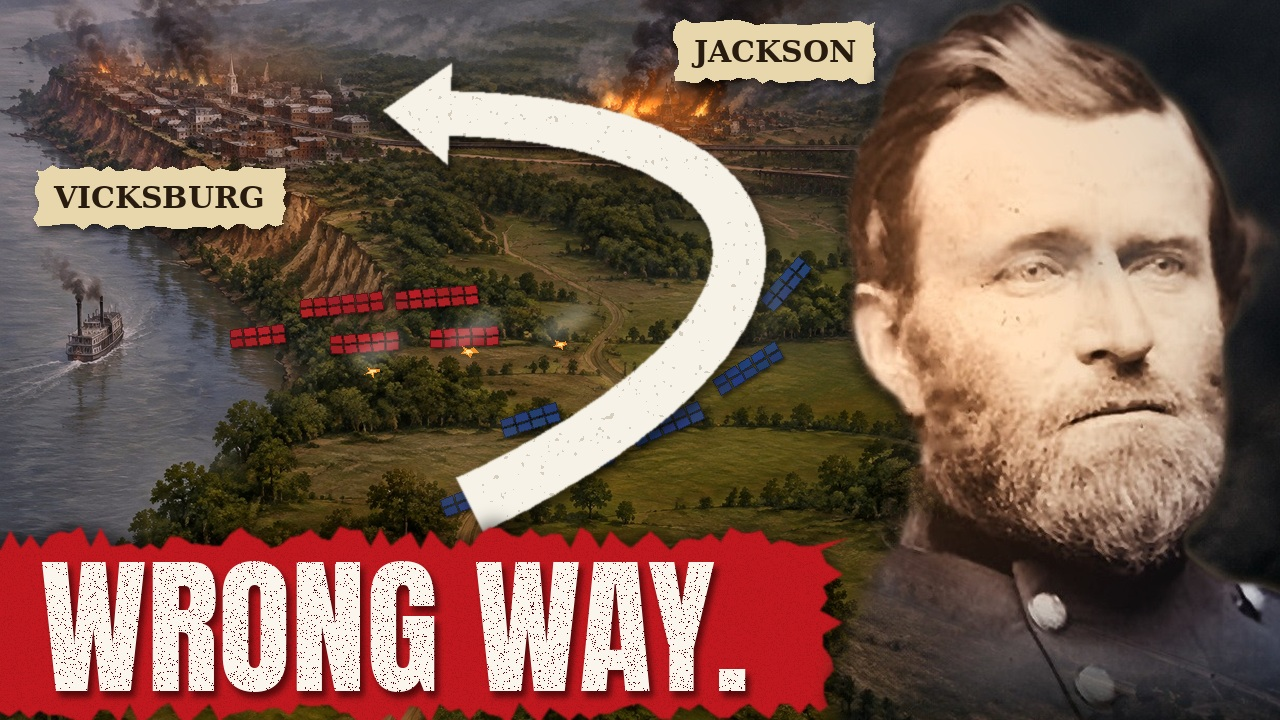
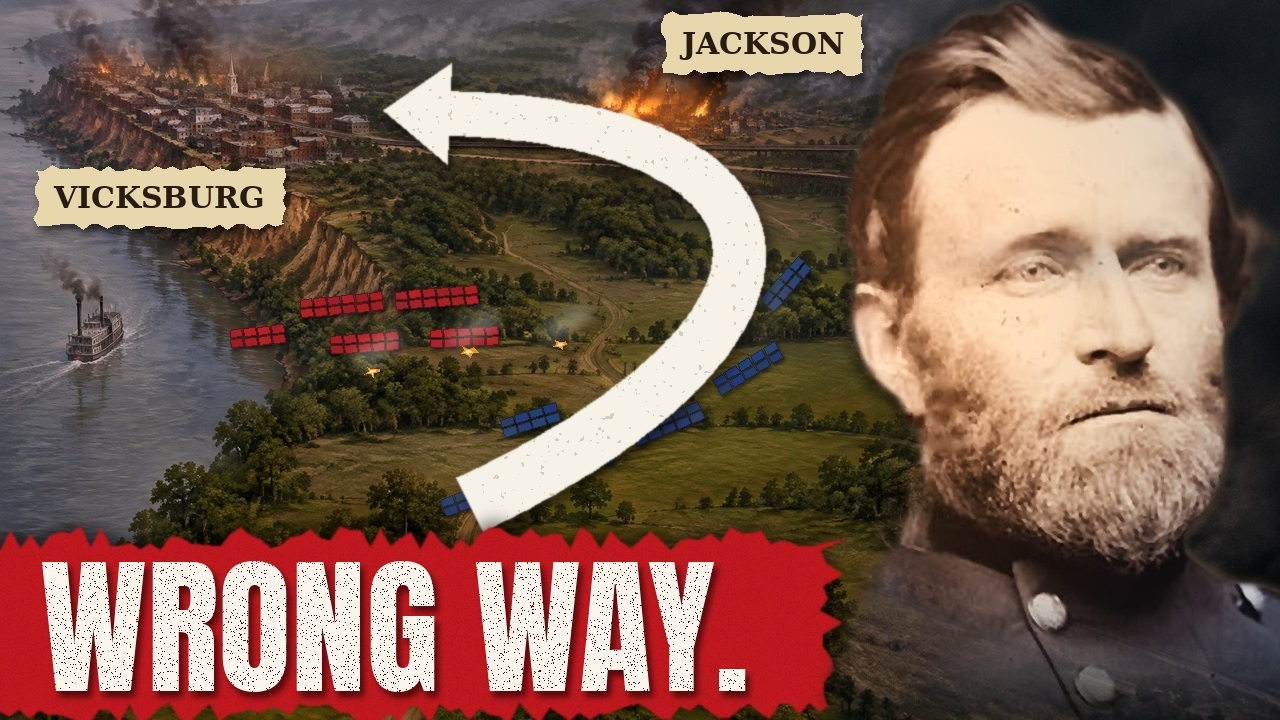
Vicksburg thumbnails v7 ALT (Jackson due east, clear of the duration badge); MAIN tag nudge
Claude-Session: https://claude.ai/code/session_011uJnjA7y1mRFw6KPGY1APG

Changed region(s): [[0.5, 0.0, 0.6875, 0.1222]]

diff --git a/vicksburg/tools/make_thumb_v7_gm.py b/vicksburg/tools/make_thumb_v7_gm.py
@@ -1,0 +1,174 @@
+"""Vicksburg v7 thumbnail, ALT (v6 + critic round 4: Jackson due EAST of Vicksburg at the town's height, out of the duration-badge corner;
+the arrow runs east, turns north up the right side to Jackson, then hooks due west into the town; the Mississippi leaves the town to the
+north/north-west; word 171 px from x ~105). Built on v6; notes follow.
+Vicksburg v6 thumbnail, ALT (v5 + critic round 3: ONE hooked arrow that runs EAST past Vicksburg to Jackson and curls back WEST into
+the town; word clear of Grant's head; open counters and letter gaps). Built on v5; notes follow.
+Vicksburg v5 thumbnail, ALT (v4 with the owner-approved word WRONG WAY. + "THEN VICKSBURG FELL"; the glowing arrow now swings EAST
+(inland, down-right on this north-up-right map) before it reaches Vicksburg: the wrong way, then the payoff). Built on v4; notes follow.
+Vicksburg v4 thumbnail, ALT (v3 + critic round 2: bigger word in the space above a lowered Grant, Bruinsburg on the river,
+sandy-brown beard + eyes -10 %, brighter subtitle). Built on the v3 script; v3 notes follow.
+Vicksburg v3 thumbnail, ALT (Test & Compare), Grand Maneuver recipe (PACKAGING_GUIDE 0c item 3B; marion/tools/make_thumb_v10.py gm()).
+v3 = every fix of youtube/thumb/critic_ALT.md (2026-11-19):
+ - heavy word: tracking +12, 1.1x stretch, MaxFilter 11 -> stem >= 27 % of word height, letter gaps >= 8 px (9 glyphs: 173 px tall, 977 wide)
+ - ONE calm left-to-right story: seal at BRUINSBURG (560,590) -> one glowing arc bowing down (the inland march east of the river)
+   -> big glowing VICKSBURG payoff at the right end (x ~1080). Map turned so north points up-right: the Mississippi runs lower-left
+   to upper-right, Bruinsburg and Vicksburg both on its EAST (lower-right) bank, Vicksburg NNE of Bruinsburg (true).
+ - payoff = vidIQ dusk vignette (Vicksburg on its bluff, lamplit, fires + smoke of the bombardment), 380 px, bottom feathered,
+   orange bloom + hot core: the hottest warm accent, at the far right.
+ - declutter: 2 labels (BRUINSBURG, VICKSBURG, Cinzel 40), no unit blocks, no star, thin Mississippi kept >= 70 px from the seal.
+ - subtitle = twist line "THEN VICKSBURG FELL" (decision 3 May, surrender 4 July 1863).
+ - portrait: vidIQ oil repaint of the LoC Brady photo (likeness, pose, two-star strap kept), hard 2 px matte, NO rim composite.
+usage (from vicksburg/): python3 tools/make_thumb_v7_gm.py "WRONG WAY." "THEN VICKSBURG FELL" ALT-GM"""
+import sys, math, numpy as np, cv2
+from PIL import Image, ImageDraw, ImageFont, ImageFilter, ImageChops, ImageEnhance
+from scipy.interpolate import splprep, splev
+W, H = 1280, 720; MT = "/home/user/battle-maps/marion/tools/"
+AN = MT + "Anton-Regular.ttf"; SER = MT + "cinzel-600.ttf"
+word = sys.argv[1] if len(sys.argv) > 1 else "WRONG WAY."
+sub = sys.argv[2] if len(sys.argv) > 2 else "THEN VICKSBURG FELL"
+tag_out = sys.argv[3] if len(sys.argv) > 3 else "ALT-GM"
+THICK = int(sys.argv[4]) if len(sys.argv) > 4 else 0
+def text_shadow(im, xy, txt, font, fill, anchor, off=(6, 8), blur=10, op=170, **kw):
+    sh = Image.new("RGBA", im.size, (0, 0, 0, 0)); ImageDraw.Draw(sh).text((xy[0] + off[0], xy[1] + off[1]), txt, font=font, fill=(0, 0, 0, op), anchor=anchor, **kw)
+    im = Image.alpha_composite(im, sh.filter(ImageFilter.GaussianBlur(blur))); ImageDraw.Draw(im).text(xy, txt, font=font, fill=fill, anchor=anchor, **kw); return im
+def soft(im, col, mask, blur):
+    lay = Image.new("RGBA", im.size, col + (0,)); lay.putalpha(mask.filter(ImageFilter.GaussianBlur(blur))); return Image.alpha_composite(im, lay)
+def bez(pts, t):
+    (a, b, c, d) = pts; return ((1 - t) ** 3 * a[0] + 3 * (1 - t) ** 2 * t * b[0] + 3 * (1 - t) * t ** 2 * c[0] + t ** 3 * d[0],
+                                (1 - t) ** 3 * a[1] + 3 * (1 - t) ** 2 * t * b[1] + 3 * (1 - t) * t ** 2 * c[1] + t ** 3 * d[1])
+def glow_arrow(im, pts, w0, w1, col, glow, tmax=0.9):
+    P = [bez(pts, t) for t in np.linspace(0, tmax, 160)]; L, R = [], []
+    for i in range(len(P)):
+        a, b = P[max(i - 1, 0)], P[min(i + 1, len(P) - 1)]; ang = math.atan2(b[1] - a[1], b[0] - a[0]); w = (w0 + (w1 - w0) * i / len(P)) / 2
+        L.append((P[i][0] + math.cos(ang + math.pi / 2) * w, P[i][1] + math.sin(ang + math.pi / 2) * w)); R.append((P[i][0] - math.cos(ang + math.pi / 2) * w, P[i][1] - math.sin(ang + math.pi / 2) * w))
+    a = math.atan2(P[-1][1] - P[-4][1], P[-1][0] - P[-4][0]); hw, hl = w1 * 1.9, w1 * 2.6; ex, ey = P[-1]
+    head = [(ex + math.cos(a + math.pi / 2) * hw, ey + math.sin(a + math.pi / 2) * hw), (ex + math.cos(a) * hl, ey + math.sin(a) * hl), (ex - math.cos(a + math.pi / 2) * hw, ey - math.sin(a + math.pi / 2) * hw)]
+    poly = L + head + R[::-1]
+    gm_ = Image.new("L", im.size, 0); ImageDraw.Draw(gm_).polygon(poly, fill=glow[3]); im = soft(im, glow[:3], gm_, 12)
+    sm = Image.new("L", im.size, 0); ImageDraw.Draw(sm).polygon([(x + 4, y + 6) for x, y in poly], fill=130); im = soft(im, (0, 0, 0), sm, 6)
+    lay = Image.new("RGBA", im.size, (0, 0, 0, 0)); ImageDraw.Draw(lay).polygon(poly, fill=col); return Image.alpha_composite(im, lay)
+def glossy_seal(im, c, R):
+    sx, sy = c; lay = Image.new("RGBA", im.size, (0, 0, 0, 0)); d = ImageDraw.Draw(lay)
+    for i in range(22):
+        a = i / 22 * 2 * math.pi; rr = R * 0.27; d.ellipse([sx + math.cos(a) * R * 0.92 - rr, sy + math.sin(a) * R * 0.92 - rr, sx + math.cos(a) * R * 0.92 + rr, sy + math.sin(a) * R * 0.92 + rr], fill=(120, 10, 16, 255))
+    for r in range(int(R), 0, -1):
+        t = r / R; d.ellipse([sx - r - (1 - t) * R * 0.2, sy - r - (1 - t) * R * 0.2, sx + r - (1 - t) * R * 0.2, sy + r - (1 - t) * R * 0.2], fill=(int(96 + 134 * (1 - t) ** 1.2), int(10 + 60 * (1 - t) ** 2), int(16 + 56 * (1 - t) ** 2), 255))
+    d.ellipse([sx - R * 0.7, sy - R * 0.7, sx + R * 0.7, sy + R * 0.7], outline=(80, 6, 10, 255), width=5)
+    for s in (1, -1):
+        pts = [(sx - R * 0.48 * s + (R * 0.86 * s) * t, sy + R * 0.46 - R * 0.9 * t - math.sin(t * math.pi) * R * 0.12) for t in np.linspace(0, 1, 18)]
+        d.line(pts, fill=(40, 40, 46, 255), width=11); d.line(pts, fill=(217, 221, 226, 255), width=7); d.line(pts[3:], fill=(255, 255, 255, 255), width=2)
+        gx, gy = pts[3]; d.line([gx - 9 * s, gy - 9, gx + 9 * s, gy + 9], fill=(212, 170, 80, 255), width=6); d.line([pts[0], pts[3]], fill=(70, 40, 20, 255), width=8)
+    hl = Image.new("L", im.size, 0); ImageDraw.Draw(hl).ellipse([sx - R * 0.75, sy - R * 0.85, sx - R * 0.05, sy - R * 0.35], fill=110)
+    sh = Image.new("L", im.size, 0); ImageDraw.Draw(sh).ellipse([sx - R + 6, sy - R + 11, sx + R + 6, sy + R + 11], fill=180)
+    im = soft(im, (0, 0, 0), sh, 9); im = Image.alpha_composite(im, lay); return soft(im, (255, 210, 210), hl, 10)
+rng = np.random.default_rng(9)
+# ---------- navy base ----------
+base = Image.new("RGB", (W, H), (14, 26, 46)); grad = Image.linear_gradient("L").resize((W, H))
+base = Image.composite(Image.new("RGB", (W, H), (20, 39, 68)), base, grad.point(lambda v: int(v * 0.6)))
+n = Image.effect_noise((W, H), 22).convert("RGB"); base = Image.blend(base, ImageChops.overlay(base, n), 0.12); im = base.convert("RGBA")
+# ---------- heavy word (thickened glyph mask) + subtitle ----------
+# 9 glyphs cannot take Marion's 1.35x stretch inside the 960 px slot, so: per-letter tracking (+12), 1.1x stretch, then a 5 px/side
+# dilation (MaxFilter 11) -> stem 27 % of the word height with >= 9 px between letters and open counters (searched, see fixes_v3.md)
+WH, SX, TRK, SW = 170, 1.25, 2, 1    # v6: searched (fixes_v6.md): Anton + stroke 1, 1.25x (Marion stretches 1.35x): stems 26 %, O 16 px, gaps >= 9 px, 1108 wide
+f0 = ImageFont.truetype(AN, int(WH * 250 / 219)); tmp = Image.new("L", (3000, 500), 0); d0 = ImageDraw.Draw(tmp); x_ = 20
+for ch in word: d0.text((x_, 20), ch, font=f0, fill=255, stroke_width=SW, stroke_fill=255); x_ += d0.textlength(ch, font=f0) + TRK / SX
+glyph = tmp.crop(tmp.getbbox()); glyph = glyph.resize((int(glyph.width * SX), glyph.height), Image.LANCZOS)
+if THICK: glyph = glyph.filter(ImageFilter.MaxFilter(THICK))
+glyph = glyph.crop(glyph.getbbox()); GH = glyph.height
+CX = 683; gx, gy = int(CX - glyph.width / 2), 14                      # v7: word from x ~105 (Grant is lower), 171 px tall
+fs = ImageFont.truetype(SER, 36); s_ = "   ".join(" ".join(w) for w in sub.split()); sy_ = gy + glyph.height + 24
+tm = Image.new("L", (W, H), 0); tm.paste(glyph, (gx, gy)); ImageDraw.Draw(tm).text((CX, sy_), s_, font=fs, fill=255, anchor="ma")
+# ---------- faint hairline rivers (cut away under the text, the portrait side and the seal) ----------
+S = 2; lay = Image.new("RGBA", (W * S, H * S), (0, 0, 0, 0)); gl = Image.new("RGBA", (W * S, H * S), (0, 0, 0, 0)); d, g = ImageDraw.Draw(lay), ImageDraw.Draw(gl)
+def walk(x, y, ang, nn, wdt, depth, bright=1.0):
+    pts = [(x, y)]
+    for _ in range(nn):
+        ang += rng.normal(0, 0.18); step = rng.uniform(14, 26) * S; x += math.cos(ang) * step; y += math.sin(ang) * step; pts.append((x, y))
+        if depth < 2 and rng.random() < 0.06: walk(x, y, ang + rng.choice([-1, 1]) * rng.uniform(0.6, 1.0), int(nn * 0.5), wdt * 0.7, depth + 1, bright)
+    g.line(pts, fill=(80, 150, 235, int(90 * bright)), width=int(9 * wdt)); d.line(pts, fill=(207, 228, 255, int(210 * bright)), width=max(2, int(3 * wdt)))
+for (x, y, a) in [(1320, 640, 3.2), (900, 760, -1.9), (1320, 300, 2.9), (700, 760, -1.4), (480, 760, -1.1)]: walk(x * S, y * S, a, 60, 0.8, 0, 0.8)
+rv = Image.alpha_composite(gl.filter(ImageFilter.GaussianBlur(8)), lay).resize((W, H), Image.LANCZOS)
+cut = tm.filter(ImageFilter.MaxFilter(31)); ImageDraw.Draw(cut).ellipse([615 - 110, 590 - 110, 615 + 110, 590 + 110], fill=255)
+rv.putalpha(ImageChops.subtract(rv.split()[3].point(lambda v: int(v * 0.30)), cut)); im = Image.alpha_composite(im, rv)
+# ---------- the Mississippi: lower-left to upper-right (north = up-right), west of Bruinsburg and Vicksburg ----------
+MS = [(320, 740), (390, 660), (462, 590), (535, 528), (620, 500), (720, 468), (800, 420), (840, 360), (836, 300), (812, 240), (790, 160), (770, 60), (760, -20)]   # v7: leaves the town to the north/north-west (Jackson lies east)   # round 2: touches the seal rim (Bruinsburg on the river)
+tck, _ = splprep(np.array(MS).T, s=0); xs, ys = splev(np.linspace(0, 1, 400), tck); mp = list(zip(xs, ys))
+dmin = min(math.hypot(x - 615, y - 590) for x, y in mp)
+mg = Image.new("L", (W, H), 0); ImageDraw.Draw(mg).line(mp, fill=120, width=20); mg = ImageChops.multiply(mg, Image.linear_gradient("L").resize((W, H)).point(lambda v: int(255 * min(1, max(0, (v * H / 255 - 250) / 70))))); im = soft(im, (80, 150, 235), mg, 9)
+ml = Image.new("RGBA", (W, H), (0, 0, 0, 0)); ImageDraw.Draw(ml).line(mp, fill=(190, 220, 255, 220), width=5); ImageDraw.Draw(ml).line(mp, fill=(236, 246, 255, 235), width=2)
+fade = Image.linear_gradient("L").resize((W, H)).point(lambda v: int(255 * min(1, max(0, (v * H / 255 - 250) / 70))))   # v7: the river fades out under the subtitle, never through the word
+ml.putalpha(ImageChops.multiply(ml.split()[3], fade)); im = Image.alpha_composite(im, ml)   # v6: brighter core = reads as the river
+# ---------- payoff: Vicksburg on its bluff at dusk, burning (right end) ----------
+IX, IY = 940, 480                                                    # v6: payoff 330 px centred ~(940,440): room for the hook on its right
+ic = Image.open("youtube/thumb/work_v3/icon_vidiq_vicksburg_dusk_v3.png").convert("RGBA"); ic = ic.crop(ic.getbbox())
+ia = np.array(ic.split()[3]).astype(float); h0 = int(ic.height * 0.66); ia[h0:] *= np.linspace(1, 0, ic.height - h0)[:, None] ** 2.2; ic.putalpha(Image.fromarray(ia.astype(np.uint8)))
+ic.thumbnail((330, 330), Image.LANCZOS); px, py = int(IX - ic.width / 2), int(IY - ic.height * 0.62)
+bm = Image.new("L", (W, H), 0); ImageDraw.Draw(bm).ellipse([IX - 150, IY - 190, IX + 150, IY + 110], fill=150); im = soft(im, (255, 138, 42), bm, 60)
+im.alpha_composite(ic, (px, py))
+hm = Image.new("L", (W, H), 0); ImageDraw.Draw(hm).ellipse([IX - 100, IY - 150, IX + 60, IY + 10], fill=120); im = soft(im, (255, 160, 60), hm, 30)
+# ---------- the move: Bruinsburg -> one arc inland (east of the river) -> Vicksburg ----------
+SX, SY = 615, 590
+# v6: ONE hooked arrow: Bruinsburg -> east along the bottom, past Vicksburg -> Jackson (apex) -> curls back west into the town's right flank
+HOOK = [(SX + 74, SY + 0), (780, 620), (900, 646), (1030, 640), (1120, 612), (1176, 562), (1196, 512), (1180, 484), (1146, 468), (1112, 462)]   # v7: east, north up the right side to Jackson, due west into the town
+tck2, _ = splprep(np.array(HOOK).T, s=0); hx, hy = splev(np.linspace(0, 1, 400), tck2); HP = list(zip(hx, hy))
+def glow_path(im, P, w0, w1, col, glow):
+    L, R = [], []
+    for i in range(len(P)):
+        a, b = P[max(i - 1, 0)], P[min(i + 1, len(P) - 1)]; ang = math.atan2(b[1] - a[1], b[0] - a[0]); w = (w0 + (w1 - w0) * i / len(P)) / 2
+        L.append((P[i][0] + math.cos(ang + math.pi / 2) * w, P[i][1] + math.sin(ang + math.pi / 2) * w)); R.append((P[i][0] - math.cos(ang + math.pi / 2) * w, P[i][1] - math.sin(ang + math.pi / 2) * w))
+    a = math.atan2(P[-1][1] - P[-6][1], P[-1][0] - P[-6][0]); hw, hl = w1 * 1.9, w1 * 2.6; ex, ey = P[-1]
+    head = [(ex + math.cos(a + math.pi / 2) * hw, ey + math.sin(a + math.pi / 2) * hw), (ex + math.cos(a) * hl, ey + math.sin(a) * hl), (ex - math.cos(a + math.pi / 2) * hw, ey - math.sin(a + math.pi / 2) * hw)]
+    poly = L + head + R[::-1]
+    gm_ = Image.new("L", im.size, 0); ImageDraw.Draw(gm_).polygon(poly, fill=glow[3]); im = soft(im, glow[:3], gm_, 12)
+    sm = Image.new("L", im.size, 0); ImageDraw.Draw(sm).polygon([(x + 4, y + 6) for x, y in poly], fill=130); im = soft(im, (0, 0, 0), sm, 6)
+    lay = Image.new("RGBA", im.size, (0, 0, 0, 0)); ImageDraw.Draw(lay).polygon(poly, fill=col); return Image.alpha_composite(im, lay), poly, math.degrees(a)
+# Jackson at the apex: a small painted flame (cropped from the vidIQ vignette's fire, no plate) + a 24 px label
+fl_src = Image.open("youtube/thumb/work_v3/icon_vidiq_vicksburg_dusk_v3.png").convert("RGBA").crop((1110, 330, 1330, 620))
+fl_src.thumbnail((60, 78), Image.LANCZOS); fa = np.array(fl_src.split()[3]).astype(float); yy_, xx_ = np.mgrid[0:fa.shape[0], 0:fa.shape[1]]
+fa *= np.clip(1 - (((xx_ - fa.shape[1] / 2) / (fa.shape[1] / 2)) ** 2 + ((yy_ - fa.shape[0] / 2) / (fa.shape[0] / 2)) ** 2), 0, 1) ** 0.6; fl_src.putalpha(Image.fromarray(fa.astype(np.uint8)))
+JX, JY = 1196, 436                                                    # v7: Jackson level with Vicksburg (y ~440), 256 px east of it
+jm = Image.new("L", (W, H), 0); ImageDraw.Draw(jm).ellipse([JX - 40, JY - 40, JX + 40, JY + 34], fill=160); im = soft(im, (255, 138, 42), jm, 20)
+_a = fl_src.split()[3]; fl_src = ImageEnhance.Brightness(fl_src.convert('RGB')).enhance(1.35).convert('RGBA'); fl_src.putalpha(_a)   # brighter flame (2nd warm spot)
+im.alpha_composite(fl_src, (JX - fl_src.width // 2, JY - fl_src.height // 2 - 6))
+im, ARROW_POLY, HEAD_DEG = glow_path(im, HP, 22, 11, (126, 195, 255, 255), (70, 150, 240, 170))
+im = glossy_seal(im, (SX, SY), 66)
+fl = ImageFont.truetype(SER, 40)
+for t, (x, y) in [("BRUINSBURG", (SX - 20, 667)), ("VICKSBURG", (960, 528))]:
+    gg = Image.new("L", (W, H), 0); ImageDraw.Draw(gg).text((x, y), t, font=fl, fill=160, anchor="ma"); im = soft(im, (255, 210, 140), gg, 6)
+    im = text_shadow(im, (x, y), t, fl, (246, 232, 196), "ma", off=(2, 3), blur=3, op=220, stroke_width=1, stroke_fill=(246, 232, 196))
+fj = ImageFont.truetype(SER, 27)
+gg = Image.new("L", (W, H), 0); ImageDraw.Draw(gg).text((1262, 372), "JACKSON", font=fj, fill=150, anchor="ra"); im = soft(im, (255, 210, 140), gg, 5)
+im = text_shadow(im, (1262, 372), "JACKSON", fj, (246, 232, 196), "ra", off=(2, 3), blur=3, op=220)
+# ---------- colour oil portrait, left, facing the map; hard matte, NO rim ----------
+b = Image.open("youtube/thumb/work_v3/grant_oil_cut_v4.png").convert("RGBA")
+s = 0.54; b = b.resize((int(b.width * s), int(b.height * s)), Image.LANCZOS); a = b.split()[3]
+fx, fy = 585 * s, 660 * s; x0, y0 = int(178 - fx), int(408 - fy)                       # round 2: Grant 70 px lower, the word takes the space above him
+shd = Image.new("L", (W, H), 0); shd.paste(a.point(lambda v: int(v * 0.75)), (x0 + 12, y0 + 8)); im = soft(im, (0, 0, 0), shd, 12)
+im.alpha_composite(b, (x0, y0))
+# ---------- word + subtitle ----------
+shm = Image.new("L", (W, H), 0); shm.paste(glyph.point(lambda v: int(v * 0.5)), (gx, gy + 8)); im = soft(im, (0, 0, 0), shm, 12)
+col = Image.new("RGBA", glyph.size, (244, 236, 216, 255)); col.putalpha(glyph); im.alpha_composite(col, (gx, gy))
+im = text_shadow(im, (CX, sy_), s_, fs, (240, 228, 200), "ma", off=(0, 3), blur=4, op=180)
+key = word.replace(" ", "_").replace(".", "")
+out = f"youtube/thumb/vicksburg-v7-{tag_out}-{key}.jpg"; im.convert("RGB").save(out, quality=94)
+# ---------- self-measure: stem width / word height, letter gaps, payoff ----------
+gm = np.array(glyph) > 128; runs = []
+for fr in (0.35, 0.5, 0.65):
+    row = gm[int(GH * fr)]; e = np.diff(np.r_[0, row.astype(int), 0]); st_, en_ = np.nonzero(e == 1)[0], np.nonzero(e == -1)[0]; runs += list(en_ - st_)
+cols = gm.any(0); e = np.diff(np.r_[1, cols.astype(int), 1]); gs, ge = np.nonzero(e == -1)[0], np.nonzero(e == 1)[0]; gaps = [q - p for p, q in zip(gs, ge) if q - p < 60]
+pa = np.array(b.split()[3]); rows = np.nonzero(pa.max(1) > 128)[0]; head_top = y0 + rows.min()
+print(f"head top y={head_top} portrait height={(720 - head_top) / 7.2:.0f}%  word bottom y={gy + GH}  face (brow) y~{int(y0 + 560 * s)}")
+from PIL import ImageDraw as _D
+am = Image.new("L", (W, H), 0); _D.Draw(am).polygon(ARROW_POLY, fill=255); A_ = np.array(am) > 0; ys_, xs_ = np.nonzero(A_)
+fb = ImageFont.truetype(SER, 40); dd = _D.Draw(Image.new("L", (W, H)))
+def _box(t, x, y, f): b_ = dd.textbbox((x, y), t, font=f, anchor="ma"); return b_
+dt = cv2.distanceTransform((~A_).astype(np.uint8), cv2.DIST_L2, 5)
+def _clr(b_): return float(dt[b_[1]:b_[3], b_[0]:b_[2]].min())
+print(f"arrow area={A_.mean() * 100:.2f}%  east extent x={xs_.max()} (payoff centre {IX}, +{xs_.max() - IX}px)  head heading={(HEAD_DEG % 360):.0f} deg (0 = right, 180 = west)")
+print(f"clearance: BRUINSBURG {_clr(_box('BRUINSBURG', SX - 20, 667, fb)):.0f}px  VICKSBURG {_clr(_box('VICKSBURG', 960, 528, fb)):.0f}px  seal centre {dt[SY, SX]:.0f}px  JACKSON label {_clr(dd.textbbox((1262, 372), 'JACKSON', font=ImageFont.truetype(SER, 27), anchor='ra')):.0f}px")
+s168 = np.array(Image.open(out).resize((168, 94), Image.LANCZOS)); print("168px: outbound/return legs span", round((xs_.max() - min(x for x, y in HP[-40:])) * 168 / 1280, 1), "px")
+bz_ = A_[651:, 1141:].sum(); jb = dd.textbbox((1262, 372), 'JACKSON', font=ImageFont.truetype(SER, 27), anchor='ra')
+rv_e = [(x, y) for x, y in mp if y < 440 and x > IX + 60]
+print(f"badge zone (x>1140, y>650) arrow px={bz_}  JACKSON label box={jb}  flame at ({JX},{JY}) = {JX - IX}px east of the town centre, dy={JY - 440}  river px east of town+60 above y440: {len(rv_e)}  word x {gx}-{gx + glyph.width}, bottom {gy + GH}")
+print(out, f"word {glyph.width}x{GH}  stem(median run)={int(np.median(runs))} = {np.median(runs) / GH * 100:.0f}% H  min letter gap={min(gaps) if gaps else -1}px  "
+      f"payoff {ic.width}x{ic.height} at x={IX}  river-seal min dist={dmin:.0f}")

diff --git a/vicksburg/tools/make_thumb_v7_sheet.py b/vicksburg/tools/make_thumb_v7_sheet.py
@@ -1,0 +1,79 @@
+"""Vicksburg v7 thumbnail sheet (v6 MAIN + v7 ALT; the YouTube duration badge is simulated on every 360 px / 168 px feed copy; last row v6 -> v7 ALT).
+Vicksburg v6 thumbnail sheet (critic round 3 fixes; layout as v5, last row v5 -> v6; sidebar under an A-style title stating the win).
+Vicksburg v5 thumbnail sheet: ours next to the 3 locked references in reference/thumbnails/ (published Grant Back Door, Marion A, Marion B)
+at the same sizes + feed strips; last row = v4 -> v5. (Layout from the v3/v4 sheets.)
+Vicksburg v3 thumbnail sheet (2026-11-19): ours next to the approved Marion references at the same sizes
+(full 1280x720, 360x202, 168x94 + 168x94 shown 2x), the published Grant 'THE BACK DOOR' beside the MAIN, and the v2 'before' strip.
+No Grand Maneuver (other channel) pixels: only our own thumbnails.
+Also thumb/sidebar_v3.jpg: the v2 YouTube "Up next" sidebar mock (same neighbours, i.ytimg.com images) with the v3 MAIN.
+usage (from vicksburg/): python3 tools/make_thumb_v7_sheet.py   -> youtube/thumb/sheet_v7.jpg + sidebar_v7.jpg"""
+from PIL import Image, ImageDraw, ImageFont
+def badge(img, txt="18:46"):
+    """simulate YouTube's duration badge in the bottom-right corner (sizes as in the feed: ~1/9 of the width)"""
+    img = img.copy(); d = ImageDraw.Draw(img); w, h = img.size; fs = max(8, int(h * 0.12))
+    f = ImageFont.truetype("/usr/share/fonts/truetype/liberation/LiberationSans-Bold.ttf", fs); tw = d.textlength(txt, font=f); pad = max(2, fs // 4)
+    x1, y1 = w - pad * 2, h - pad * 2; d.rounded_rectangle([x1 - tw - 2 * pad, y1 - fs - pad, x1, y1], radius=pad, fill=(0, 0, 0)); d.text((x1 - pad - tw, y1 - fs - pad * 0.6), txt, font=f, fill=(255, 255, 255))
+    return img
+T = "youtube/thumb/"; RT = "/home/user/battle-maps/"
+OS = RT + "marion/tools/oswald-latin-700-normal.ttf"
+F = ImageFont.truetype(OS, 34); Fs = ImageFont.truetype(OS, 24); Ft = ImageFont.truetype(OS, 18)
+RF = RT + "reference/thumbnails/"
+ROWS = [("MAIN  (Back Door recipe, 0c A)", [("OURS v6 MAIN  WRONG WAY.", T + "vicksburg-v6-MAIN-BD-WRONG_WAY.jpg"),
+                                      ("REFERENCE: PUBLISHED Grant  THE BACK DOOR", RF + "ref-A-backdoor-PUBLISHED-grant.jpg"),
+                                      ("REFERENCE: Marion A  HE RAN.", RF + "example-A-backdoor-marion-HE_RAN.jpg")]),
+        ("ALT  (Grand Maneuver recipe, 0c B, Test & Compare)", [("OURS v7 ALT  WRONG WAY. / THEN VICKSBURG FELL", T + "vicksburg-v7-ALT-GM-WRONG_WAY.jpg"),
+                                      ("REFERENCE: Marion B  HE RAN.", RF + "example-B-grandmaneuver-marion-HE_RAN.jpg")])]
+FULLW, GAP = 1280, 40; SW = 3 * FULLW + 4 * GAP
+blk = 50 + 720 + 40 + 230 + 30
+s = Image.new("RGB", (SW, 70 + blk * len(ROWS) + 330), (22, 21, 20)); d = ImageDraw.Draw(s)
+d.text((GAP, 16), "VICKSBURG 1863  -  thumbnails v7 (2026-11-19): v6 MAIN (passed) + v7 ALT (Jackson due east, out of the badge corner); feed copies carry a simulated duration badge  -  ours vs the 3 locked references (reference/thumbnails) at the same sizes: full, 360x202, 168x94 (+2x)", font=F, fill=(240, 230, 210))
+y = 70
+for title, items in ROWS:
+    d.text((GAP, y), title, font=F, fill=(255, 200, 120)); y0 = y + 50
+    for i, (lab, f) in enumerate(items):
+        x = GAP + i * (FULLW + GAP); im = Image.open(f).convert("RGB").resize((1280, 720), Image.LANCZOS)
+        s.paste(im, (x, y0)); d.text((x, y0 + 726), lab, font=Fs, fill=(232, 220, 196))
+        yy = y0 + 770; s.paste(badge(im.resize((360, 202), Image.LANCZOS)), (x, yy)); sm = badge(im.resize((168, 94), Image.LANCZOS))
+        s.paste(sm, (x + 380, yy)); s.paste(sm.resize((336, 188), Image.NEAREST), (x + 568, yy)); d.text((x + 380, yy + 100), "168x94", font=Ft, fill=(150, 140, 120))
+        d.text((x + 568, yy + 192), "168x94 shown 2x", font=Ft, fill=(150, 140, 120))
+    y += blk
+# before -> after strip at 360 px
+d.text((GAP, y), "ALT before (v6)  ->  after (v7)  at 360x202, with the duration badge", font=F, fill=(255, 200, 120)); y += 50
+pairs = [T + "vicksburg-v6-ALT-GM-WRONG_WAY.jpg", T + "vicksburg-v7-ALT-GM-WRONG_WAY.jpg"]
+for i, f in enumerate(pairs):
+    x = GAP + i * 400 + (i // 2) * 120; s.paste(badge(Image.open(f).convert("RGB").resize((360, 202), Image.LANCZOS)), (x, y))
+    d.text((x, y + 208), ("v6 " if i % 2 == 0 else "v7 ") + "ALT", font=Fs, fill=(200, 190, 170))
+s = s.crop((0, 0, SW, y + 250)); s.save(T + "sheet_v7.jpg", quality=88); print(T + "sheet_v7.jpg", s.size)
+R = T + "work_v2/refs/"; SANS = "/usr/share/fonts/truetype/liberation/LiberationSans-Regular.ttf"; SANSB = "/usr/share/fonts/truetype/liberation/LiberationSans-Bold.ttf"
+# ---------------- sidebar mock (YouTube dark theme, 'Up next' column, 2x scale) ----------------
+SB = [("OURS", T + "vicksburg-v6-MAIN-BD-WRONG_WAY.jpg", "Grant's Vicksburg Campaign | The Man Who Took Vicksburg", "Our channel", "new", "18:46"),
+      ("qnq-df4MQzI", R + "qnq-df4MQzI.jpg", "Grant: Massive Siege of Vicksburg Leads to Union Victory | History", "HISTORY", "2.3M views", "10:46"),
+      ("1eSgimZ8GKQ", R + "1eSgimZ8GKQ.jpg", "Vicksburg: Animated Battle Map", "American Battlefield Trust", "1.5M views", "20:32"),
+      ("_VyV1CklHZs", R + "_VyV1CklHZs.jpg", "The Massive Siege of Vicksburg That Secured a Union Victory | Grant | Biography", "Biography", "387K views", "10:46"),
+      ("OktdqgBKD9E", R + "OktdqgBKD9E.jpg", "Vicksburg Campaign: The Civil War in Four Minutes", "American Battlefield Trust", "217K views", "4:59"),
+      ("ltx7u5vApWc", R + "ltx7u5vApWc.jpg", "Grant's Masterpiece: The Vicksburg Campaign 1862-63 (All Parts)", "Warhawk", "160K views", "2:45:56"),
+      ("Gcb2a9skJH4", R + "Gcb2a9skJH4.jpg", "Taking Down The Citadel: The Siege of Vicksburg (1863)", "Threads from the National Tapestry", "87K views", "57:52")]
+order = [1, 2, 0, 3, 4, 5, 6]                       # ours sits third, between the two biggest
+K = 2; tw, th = 168 * K, 94 * K; rowh = th + 16 * K; Wd = 402 * K
+sb = Image.new("RGB", (Wd, 30 * K + rowh * len(order)), (15, 15, 15)); d = ImageDraw.Draw(sb)
+ft = ImageFont.truetype(SANSB, 14 * K); fm = ImageFont.truetype(SANS, 12 * K); fd = ImageFont.truetype(SANSB, 11 * K)
+d.text((8 * K, 6 * K), "Up next  -  mock: our MAIN among the top 'Vicksburg campaign' results (168x94, shown 2x)", font=ImageFont.truetype(SANS, 9 * K), fill=(170, 170, 170))
+def wrap(t, f, w):
+    out, line = [], ""
+    for wd in t.split():
+        if d.textlength((line + " " + wd).strip(), font=f) <= w: line = (line + " " + wd).strip()
+        else: out.append(line); line = wd
+    out.append(line); return out[:2]
+for r, i in enumerate(order):
+    key, f, title, ch, views, dur = SB[i]; y = 30 * K + r * rowh; x = 8 * K
+    im = Image.open(f).convert("RGB")
+    if im.size != (1280, 720):
+        w_, h_ = im.size; nh = int(w_ * 9 / 16); im = im.crop((0, (h_ - nh) // 2, w_, (h_ - nh) // 2 + nh))
+    t = im.resize((168, 94), Image.LANCZOS).resize((tw, th), Image.LANCZOS)
+    m = Image.new("L", (tw, th), 0); ImageDraw.Draw(m).rounded_rectangle([0, 0, tw - 1, th - 1], 8 * K, fill=255); sb.paste(t, (x, y), m)
+    dw = d.textlength(dur, font=fd); d.rounded_rectangle([x + tw - dw - 10 * K, y + th - 18 * K, x + tw - 4 * K, y + th - 4 * K], 3 * K, fill=(0, 0, 0)); d.text((x + tw - dw - 7 * K, y + th - 17 * K), dur, font=fd, fill=(255, 255, 255))
+    tx = x + tw + 8 * K
+    for j, l in enumerate(wrap(title, ft, Wd - tx - 8 * K)): d.text((tx, y + j * 19 * K), l, font=ft, fill=(241, 241, 241))
+    d.text((tx, y + 42 * K), ch, font=fm, fill=(170, 170, 170)); d.text((tx, y + 58 * K), views, font=fm, fill=(170, 170, 170))
+    if key == "OURS": d.rectangle([2 * K, y - 4 * K, 5 * K, y + th + 4 * K], fill=(230, 40, 40))
+sb.save(T + "sidebar_v7.jpg", quality=92); print(T + "sidebar_v7.jpg", sb.size)

diff --git a/vicksburg/tools/make_thumb_v6_sheet.py b/vicksburg/tools/make_thumb_v6_sheet.py
@@ -11,7 +11,7 @@ T = "youtube/thumb/"; RT = "/home/user/battle-maps/"
 OS = RT + "marion/tools/oswald-latin-700-normal.ttf"
 F = ImageFont.truetype(OS, 34); Fs = ImageFont.truetype(OS, 24); Ft = ImageFont.truetype(OS, 18)
 RF = RT + "reference/thumbnails/"
-ROWS = [("MAIN  (Back Door recipe, 0c A)", [("OURS v5 MAIN  WRONG WAY.", T + "vicksburg-v6-MAIN-BD-WRONG_WAY.jpg"),
+ROWS = [("MAIN  (Back Door recipe, 0c A)", [("OURS v6 MAIN  WRONG WAY.", T + "vicksburg-v6-MAIN-BD-WRONG_WAY.jpg"),
                                       ("REFERENCE: PUBLISHED Grant  THE BACK DOOR", RF + "ref-A-backdoor-PUBLISHED-grant.jpg"),
                                       ("REFERENCE: Marion A  HE RAN.", RF + "example-A-backdoor-marion-HE_RAN.jpg")]),
         ("ALT  (Grand Maneuver recipe, 0c B, Test & Compare)", [("OURS v6 ALT  WRONG WAY. / THEN VICKSBURG FELL", T + "vicksburg-v6-ALT-GM-WRONG_WAY.jpg"),

diff --git a/vicksburg/tools/make_thumb_v6_backdoor.py b/vicksburg/tools/make_thumb_v6_backdoor.py
@@ -103,7 +103,7 @@ def parchment(im, xy, lines, size=30):
     for i, l in enumerate(lines): d.text((x + pw / 2, y + 11 + i * (size + 6)), l, font=f, fill=(40, 28, 16), anchor="ma")
     return out, (x, y, pw, ph)
 im, TAG_V = parchment(im, (36, 168), ["VICKSBURG"], 30)
-im, TAG_J = parchment(im, (676, 22), ["JACKSON"], 30)
+im, TAG_J = parchment(im, (664, 14), ["JACKSON"], 30)            # critic R4 note: >= 25 px clear of the hair
 # ---------- bottom red brush band with speckled white text ----------
 f = ImageFont.truetype(AN, WORD_SIZE); tw = ImageDraw.Draw(im).textlength(word, font=f)
 bx0, by0, bx1, by1 = -10, 538, int(40 + tw + 70), 712

diff --git a/vicksburg/youtube/thumb/fixes_v7.md b/vicksburg/youtube/thumb/fixes_v7.md
@@ -1,0 +1,28 @@
+# Vicksburg thumbnails v7: ALT critic round 4 fixes (2026-11-19)
+
+Round 4: MAIN v6 PASSED (9/8) and is kept. Only its JACKSON tag moved, 12 px left and 8 px up to (664,14), so it sits more than 30 px clear of the hair; nothing else changed.
+ALT v6 failed narrowly (8/7.5) on Jackson: drawn south-east of Vicksburg and under the duration badge. v7 ALT fixes that.
+Outputs: `vicksburg-v7-ALT-GM-WRONG_WAY.jpg`, `vicksburg-v6-MAIN-BD-WRONG_WAY.jpg` (tag nudge), `sheet_v7.jpg` (v6 MAIN + v7 ALT next to the 3 locked
+references; every 360 px / 168 px copy carries a simulated "18:46" duration badge; last row v6 -> v7 ALT), `sidebar_v7.jpg`.
+Scripts (from `vicksburg/`): `tools/make_thumb_v7_gm.py "WRONG WAY." "THEN VICKSBURG FELL" ALT-GM`, `tools/make_thumb_v6_backdoor.py "WRONG WAY." MAIN-BD`,
+`tools/make_thumb_v7_sheet.py`. 0 vidIQ credits.
+
+| Round-4 condition | v6 | **v7** | Target |
+|---|---|---|---|
+| A. Jackson level with Vicksburg | flame (1236,640), 200 px below the town | **flame (1196,436): dy -4 px from the town's y 440, 256 px east of its centre** | y within ±40, >= 220 px to the right |
+| Jackson flame | ~46 px | **~60 px painted flame (from the vidIQ fire, no plate), brightened 1.35x, small bloom** | ~60 px + small glow |
+| JACKSON label | 24 px, bottom-right corner | **Cinzel 27 above the flame, right-aligned to x 1262 (box 1132-1262, y 378-406)** | 26-28 px, above, x <= 1262 |
+| B. Badge zone (x>1140, y>650) | label + flame inside it | **0 arrow px, no flame, no label** | empty |
+| Arrow route | east along the bottom, apex low at Jackson | **east along the bottom, north up the right side (x ~1196, y 610 -> 500), just under the Jackson flame, then due WEST into the town's right flank** | Bruinsburg -> east/north-east -> Jackson -> due west |
+| Head heading | 207 deg | **190 deg** | 170-200 |
+| Arrow area | 1.48 % | **1.38 %** (1.35 % by polygon) | <= 1.6 % |
+| East extent past the town centre | +264 px | **+262 px** | U-turn readable at 168 px (sheet, with the badge) |
+| Mississippi | ran north-east to (1280,300), north of Jackson | **leaves the town to the north/north-west and fades out under the subtitle (alpha ramp y 250-320)**; 0 river px east of town centre +60 for y < 440; still touches the seal (86 px from its centre) | west/north of the town only |
+| Optional: bigger word | 162 px, x 151-1259 | **171 px tall (23.8 %H), x 99-1266; stem 25.7 %, O 18 px, letter gaps >= 11 px; word bottom y 185 vs hair 199 = 14 px clear** | >= 170 px, keep weight/openings/gaps, head clear |
+| Clearances BRUINSBURG / VICKSBURG / seal | 58 / 57 / 72 px | **59 / 48 / 72 px** (waived by the critic: nothing crowded) | |
+| 168 px luminance std | 71.5 | **73.7** | M 73.2 |
+| Mean grey / sat | 76 / 130 | **78.6 / 128.7** | M 74 / 140 |
+| Warm accent | 1.32 % | **1.35 % (centroid x 918)** | town = hottest spot, Jackson second |
+
+In north-up terms the arrow now draws the real campaign shape: Bruinsburg -> east and north-east -> Jackson (level with Vicksburg, linked
+by the east-west railroad, 32.30 N vs 32.35 N) -> due west into Vicksburg.
